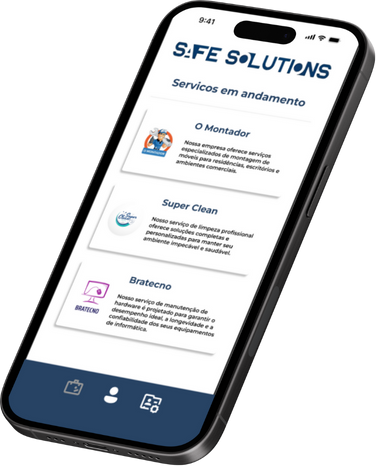
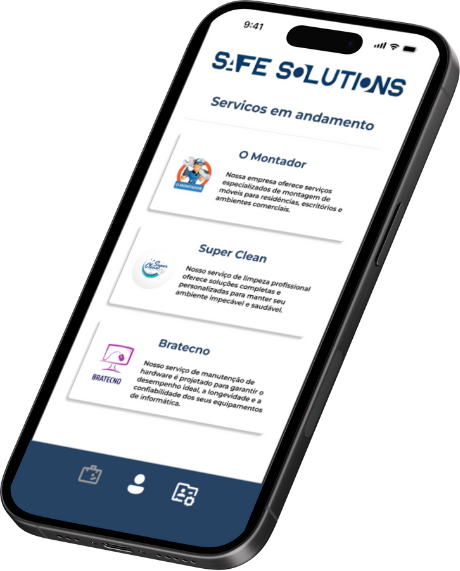
Alteracao Solicitacao

diff --git a/src/pages/subPages/Solicitação.jsx b/src/pages/subPages/Solicitação.jsx
@@ -15,7 +15,7 @@ function Solicitação() {
          <button id='Button' className= 'btn btn-primary'>Voltar aos serviços</button>
 
          <div className='DesignCell'>
-         <img src={Cell} width={500} height={640} alt="Design  " />
+         <img src={Cell}  alt="Design  " />
          </div>
         </div>
     </div>

diff --git a/src/assets/css/solicitacao.css b/src/assets/css/solicitacao.css
@@ -16,6 +16,6 @@
 }
 .SolicitacaoContent .DesignCell{
 
-    margin: -350px auto 20vh 1100px;
+    margin: -350px auto 20vh 1000px;
 
 }
